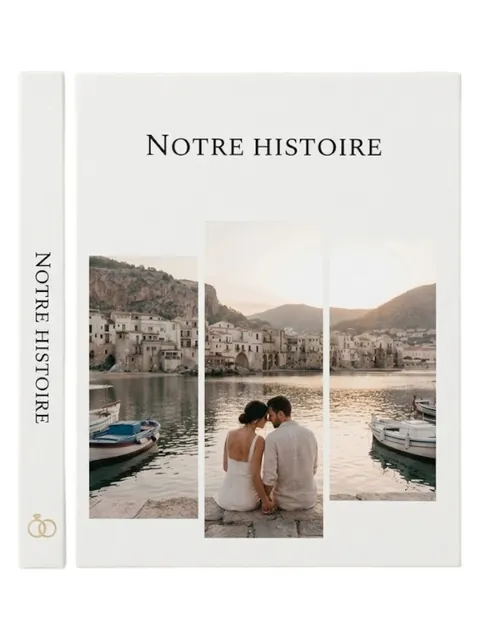
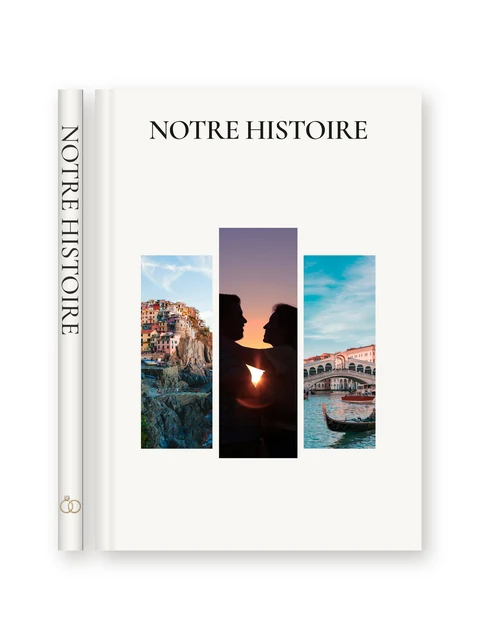
Template pictures with free photos; Family templates start in A5 portrait
- The 4 templates with photo frames (Notre rencontre, Notre histoire, Our
  Forever Journey, Our Year) now get their picture from the real template
  too, frames filled with free Unsplash photos (scripts/template-previews/
  photos, credited in CREDITS.md; Unsplash License). All 15 pictures share
  the same layout.
- Family templates (family., Mom, Dad) start albums in A5 portrait: the
  Format step opens with it selected, still changeable. Their pictures are
  drawn in A5.

Claude-Session: https://claude.ai/code/session_019iW3qNmH4N4x87DfLWtU9k

diff --git a/frontend/src/pages/CreateAlbum.jsx b/frontend/src/pages/CreateAlbum.jsx
@@ -4,7 +4,7 @@ import { useTranslation } from "react-i18next";
 import { api } from "@/lib/api";
 import { toast } from "sonner";
 import { DEFAULT_COVER, defaultLogoItem, getTemplate } from "@/lib/coverTemplates";
-import { findTemplate } from "@/lib/coverThemes";
+import { findTemplate, templateFormat } from "@/lib/coverThemes";
 import { makeCoverEditingActions, cryptoRandom } from "@/lib/coverEditing";
 import { CoverFrontPage } from "@/components/book/CoverFrontPage";
 import { CoverBackPage } from "@/components/book/CoverBackPage";
@@ -89,8 +89,9 @@ export default function CreateAlbum() {
   const resumeAlbumId = params.get("albumId");
   const chosenTemplate = findTemplate(params.get("template"));
   const [step, setStep] = useState(0);
-  const [size, setSize] = useState("A4");
-  const [orientation, setOrientation] = useState("portrait");
+  const startFormat = templateFormat(params.get("template"));
+  const [size, setSize] = useState(startFormat?.size || "A4");
+  const [orientation, setOrientation] = useState(startFormat?.orientation || "portrait");
   const [targetPages, setTargetPages] = useState(50);
   const [album, setAlbum, albumHistory] = useHistoryState(null); // created once we leave the Format step
   const [coverSel, setCoverSel] = useState(null);

diff --git a/frontend/src/lib/coverThemes.test.js b/frontend/src/lib/coverThemes.test.js
@@ -1,5 +1,5 @@
 import { describe, expect, it } from "vitest";
-import { COVER_THEMES, spineLogoSource } from "@/lib/coverThemes";
+import { COVER_THEMES, spineLogoSource, templateFormat } from "@/lib/coverThemes";
 
 const templates = COVER_THEMES.flatMap((t) => t.templates);
 const logoOf = (id) => templates.find((t) => t.id === id).cover.spine_logo_image;
@@ -32,5 +32,15 @@ describe("spine logo", () => {
 
   it("no template shows the spine year any more", () => {
     for (const tpl of templates) expect(tpl.cover).not.toHaveProperty("spine_year_hidden");
+  });
+});
+
+describe("templateFormat", () => {
+  it("starts Family albums in A5 portrait, the others in the default format", () => {
+    for (const id of ["family-plain", "family-mom", "family-dad"]) {
+      expect(templateFormat(id)).toEqual({ size: "A5", orientation: "portrait" });
+    }
+    expect(templateFormat("travel-sicily")).toBeNull();
+    expect(templateFormat(null)).toBeNull();
   });
 });

diff --git a/frontend/src/lib/coverThemes.js b/frontend/src/lib/coverThemes.js
@@ -358,6 +358,8 @@ export const COVER_THEMES = [
   {
     id: "family",
     label: "Family",
+    // Format already chosen on the Format step for these templates (still changeable there).
+    format: { size: "A5", orientation: "portrait" },
     templates: [
       {
         id: "family-plain",
@@ -536,6 +538,12 @@ export const COVER_THEMES = [
     ],
   },
 ];
+
+/** The format ({size, orientation}) a template's theme starts albums in, or null. */
+export function templateFormat(templateId) {
+  const theme = COVER_THEMES.find((th) => th.templates.some((t) => t.id === templateId));
+  return theme?.format || null;
+}
 
 export function findTemplate(templateId) {
   for (const theme of COVER_THEMES) {

diff --git a/frontend/scripts/template-previews/render.py b/frontend/scripts/template-previews/render.py
@@ -52,8 +52,8 @@ def album_for(t, photo_files):
         "user_id": "preview",
         "title": t["title"],
         "cover_template_id": t["id"],
-        "size": "A4",
-        "orientation": "portrait",
+        "size": (t.get("format") or {}).get("size", "A4"),
+        "orientation": (t.get("format") or {}).get("orientation", "portrait"),
         "status": "ready",
         "version": 0,
         "country": "",

diff --git a/frontend/scripts/template-previews/photos/CREDITS.md b/frontend/scripts/template-previews/photos/CREDITS.md
@@ -1,0 +1,22 @@
+# Photos used to fill the photo frames of the template pictures
+
+All from Unsplash, under the Unsplash License (free to use, commercial use
+included, no permission needed): https://unsplash.com/license
+
+- couple-notre-rencontre:
+  - unsplash-1501901609772-df0848060b33.jpg: https://images.unsplash.com/photo-1501901609772-df0848060b33
+  - unsplash-1474552226712-ac0f0961a954.jpg: https://images.unsplash.com/photo-1474552226712-ac0f0961a954
+  - unsplash-1529634806980-85c3dd6d34ac.jpg: https://images.unsplash.com/photo-1529634806980-85c3dd6d34ac
+  - unsplash-1513279922550-250c2129b13a.jpg: https://images.unsplash.com/photo-1513279922550-250c2129b13a
+- couple-notre-histoire:
+  - unsplash-1516483638261-f4dbaf036963.jpg: https://images.unsplash.com/photo-1516483638261-f4dbaf036963
+  - unsplash-1494774157365-9e04c6720e47.jpg: https://images.unsplash.com/photo-1494774157365-9e04c6720e47
+  - unsplash-1523906834658-6e24ef2386f9.jpg: https://images.unsplash.com/photo-1523906834658-6e24ef2386f9
+- couple-forever-journey:
+  - unsplash-1511285560929-80b456fea0bc.jpg: https://images.unsplash.com/photo-1511285560929-80b456fea0bc
+- celebrations-our-year:
+  - unsplash-1511632765486-a01980e01a18.jpg: https://images.unsplash.com/photo-1511632765486-a01980e01a18
+  - unsplash-1506869640319-fe1a24fd76dc.jpg: https://images.unsplash.com/photo-1506869640319-fe1a24fd76dc
+  - unsplash-1539635278303-d4002c07eae3.jpg: https://images.unsplash.com/photo-1539635278303-d4002c07eae3
+  - unsplash-1527529482837-4698179dc6ce.jpg: https://images.unsplash.com/photo-1527529482837-4698179dc6ce
+  - unsplash-1529156069898-49953e39b3ac.jpg: https://images.unsplash.com/photo-1529156069898-49953e39b3ac
